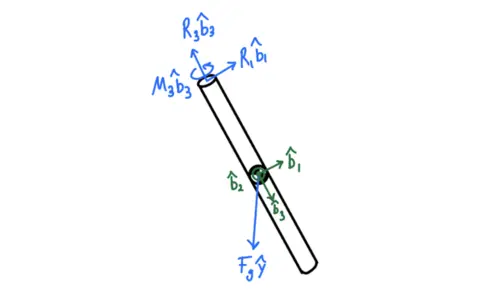
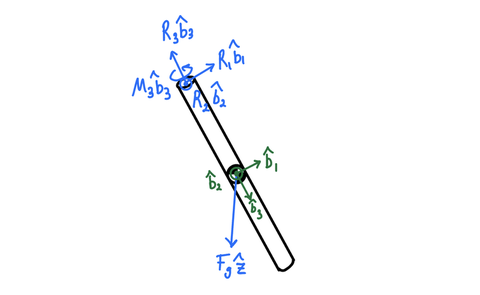
Deploying to gh-pages from @ jinhyunpark2459/jinhyunpark2459.github.io@9fc0fb31d1b1338cb011448d704d0d517c1a399c 🚀

Changed region(s): [[0.25, 0.0305, 0.6875, 0.9458]]

diff --git a/2021/07/04/diagrams.html b/2021/07/04/diagrams.html
@@ -150,8 +150,8 @@ sequenceDiagram
 </code></pre></div></div>
 
 <div class="jekyll-diagrams diagrams mermaid">
-  <svg id="mermaid-1685854302883" width="100%" xmlns="http://www.w3.org/2000/svg" height="100%" style="max-width:450px;" viewbox="-50 -10 450 231"><style>#mermaid-1685854302883 .label{font-family:trebuchet ms,verdana,arial;color:#333}#mermaid-1685854302883 .node circle,#mermaid-1685854302883 .node ellipse,#mermaid-1685854302883 .node polygon,#mermaid-1685854302883 .node rect{fill:#ececff;stroke:#9370db;stroke-width:1px}#mermaid-1685854302883 .node.clickable{cursor:pointer}#mermaid-1685854302883 .arrowheadPath{fill:#333}#mermaid-1685854302883 .edgePath .path{stroke:#333;stroke-width:1.5px}#mermaid-1685854302883 .edgeLabel{background-color:#e8e8e8}#mermaid-1685854302883 .cluster rect{fill:#ffffde!important;stroke:#aa3!important;stroke-width:1px!important}#mermaid-1685854302883 .cluster text{fill:#333}#mermaid-1685854302883 div.mermaidTooltip{position:absolute;text-align:center;max-width:200px;padding:2px;font-family:trebuchet ms,verdana,arial;font-size:12px;background:#ffffde;border:1px solid #aa3;border-radius:2px;pointer-events:none;z-index:100}#mermaid-1685854302883 .actor{stroke:#ccf;fill:#ececff}#mermaid-1685854302883 text.actor{fill:#000;stroke:none}#mermaid-1685854302883 .actor-line{stroke:grey}#mermaid-1685854302883 .messageLine0{marker-end:"url(#arrowhead)"}#mermaid-1685854302883 .messageLine0,#mermaid-1685854302883 .messageLine1{stroke-width:1.5;stroke-dasharray:"2 2";stroke:#333}#mermaid-1685854302883 #arrowhead{fill:#333}#mermaid-1685854302883 #crosshead path{fill:#333!important;stroke:#333!important}#mermaid-1685854302883 .messageText{fill:#333;stroke:none}#mermaid-1685854302883 .labelBox{stroke:#ccf;fill:#ececff}#mermaid-1685854302883 .labelText,#mermaid-1685854302883 .loopText{fill:#000;stroke:none}#mermaid-1685854302883 .loopLine{stroke-width:2;stroke-dasharray:"2 2";marker-end:"url(#arrowhead)";stroke:#ccf}#mermaid-1685854302883 .note{stroke:#aa3;fill:#fff5ad}#mermaid-1685854302883 .noteText{fill:#000;stroke:none;font-family:trebuchet ms,verdana,arial;font-size:14px}#mermaid-1685854302883 .section{stroke:none;opacity:.2}#mermaid-1685854302883 .section0{fill:rgba(102,102,255,.49)}#mermaid-1685854302883 .section2{fill:#fff400}#mermaid-1685854302883 .section1,#mermaid-1685854302883 .section3{fill:#fff;opacity:.2}#mermaid-1685854302883 .sectionTitle0,#mermaid-1685854302883 .sectionTitle1,#mermaid-1685854302883 .sectionTitle2,#mermaid-1685854302883 .sectionTitle3{fill:#333}#mermaid-1685854302883 .sectionTitle{text-anchor:start;font-size:11px;text-height:14px}#mermaid-1685854302883 .grid .tick{stroke:#d3d3d3;opacity:.3;shape-rendering:crispEdges}#mermaid-1685854302883 .grid path{stroke-width:0}#mermaid-1685854302883 .today{fill:none;stroke:red;stroke-width:2px}#mermaid-1685854302883 .task{stroke-width:2}#mermaid-1685854302883 .taskText{text-anchor:middle;font-size:11px}#mermaid-1685854302883 .taskTextOutsideRight{fill:#000;text-anchor:start;font-size:11px}#mermaid-1685854302883 .taskTextOutsideLeft{fill:#000;text-anchor:end;font-size:11px}#mermaid-1685854302883 .taskText0,#mermaid-1685854302883 .taskText1,#mermaid-1685854302883 .taskText2,#mermaid-1685854302883 .taskText3{fill:#fff}#mermaid-1685854302883 .task0,#mermaid-1685854302883 .task1,#mermaid-1685854302883 .task2,#mermaid-1685854302883 .task3{fill:#8a90dd;stroke:#534fbc}#mermaid-1685854302883 .taskTextOutside0,#mermaid-1685854302883 .taskTextOutside1,#mermaid-1685854302883 .taskTextOutside2,#mermaid-1685854302883 .taskTextOutside3{fill:#000}#mermaid-1685854302883 .active0,#mermaid-1685854302883 .active1,#mermaid-1685854302883 .active2,#mermaid-1685854302883 .active3{fill:#bfc7ff;stroke:#534fbc}#mermaid-1685854302883 .activeText0,#mermaid-1685854302883 .activeText1,#mermaid-1685854302883 .activeText2,#mermaid-1685854302883 .activeText3{fill:#000!important}#mermaid-1685854302883 .done0,#mermaid-1685854302883 .done1,#mermaid-1685854302883 .done2,#mermaid-1685854302883 .done3{stroke:grey;fill:#d3d3d3;stroke-width:2}#mermaid-1685854302883 .doneText0,#mermaid-1685854302883 .doneText1,#mermaid-1685854302883 .doneText2,#mermaid-1685854302883 .doneText3{fill:#000!important}#mermaid-1685854302883 .crit0,#mermaid-1685854302883 .crit1,#mermaid-1685854302883 .crit2,#mermaid-1685854302883 .crit3{stroke:#f88;fill:red;stroke-width:2}#mermaid-1685854302883 .activeCrit0,#mermaid-1685854302883 .activeCrit1,#mermaid-1685854302883 .activeCrit2,#mermaid-1685854302883 .activeCrit3{stroke:#f88;fill:#bfc7ff;stroke-width:2}#mermaid-1685854302883 .doneCrit0,#mermaid-1685854302883 .doneCrit1,#mermaid-1685854302883 .doneCrit2,#mermaid-1685854302883 .doneCrit3{stroke:#f88;fill:#d3d3d3;stroke-width:2;cursor:pointer;shape-rendering:crispEdges}#mermaid-1685854302883 .activeCritText0,#mermaid-1685854302883 .activeCritText1,#mermaid-1685854302883 .activeCritText2,#mermaid-1685854302883 .activeCritText3,#mermaid-1685854302883 .doneCritText0,#mermaid-1685854302883 .doneCritText1,#mermaid-1685854302883 .doneCritText2,#mermaid-1685854302883 .doneCritText3{fill:#000!important}#mermaid-1685854302883 .titleText{text-anchor:middle;font-size:18px;fill:#000}#mermaid-1685854302883 g.classGroup text{fill:#9370db;stroke:none;font-family:trebuchet ms,verdana,arial;font-size:10px}#mermaid-1685854302883 g.classGroup rect{fill:#ececff;stroke:#9370db}#mermaid-1685854302883 g.classGroup line{stroke:#9370db;stroke-width:1}#mermaid-1685854302883 .classLabel .box{stroke:none;stroke-width:0;fill:#ececff;opacity:.5}#mermaid-1685854302883 .classLabel .label{fill:#9370db;font-size:10px}#mermaid-1685854302883 .relation{stroke:#9370db;stroke-width:1;fill:none}#mermaid-1685854302883 #compositionEnd,#mermaid-1685854302883 #compositionStart{fill:#9370db;stroke:#9370db;stroke-width:1}#mermaid-1685854302883 #aggregationEnd,#mermaid-1685854302883 #aggregationStart{fill:#ececff;stroke:#9370db;stroke-width:1}#mermaid-1685854302883 #dependencyEnd,#mermaid-1685854302883 #dependencyStart,#mermaid-1685854302883 #extensionEnd,#mermaid-1685854302883 #extensionStart{fill:#9370db;stroke:#9370db;stroke-width:1}#mermaid-1685854302883 .branch-label,#mermaid-1685854302883 .commit-id,#mermaid-1685854302883 .commit-msg{fill:#d3d3d3;color:#d3d3d3}</style>
-<style>#mermaid-1685854302883 {
+  <svg id="mermaid-1685934436712" width="100%" xmlns="http://www.w3.org/2000/svg" height="100%" style="max-width:450px;" viewbox="-50 -10 450 231"><style>#mermaid-1685934436712 .label{font-family:trebuchet ms,verdana,arial;color:#333}#mermaid-1685934436712 .node circle,#mermaid-1685934436712 .node ellipse,#mermaid-1685934436712 .node polygon,#mermaid-1685934436712 .node rect{fill:#ececff;stroke:#9370db;stroke-width:1px}#mermaid-1685934436712 .node.clickable{cursor:pointer}#mermaid-1685934436712 .arrowheadPath{fill:#333}#mermaid-1685934436712 .edgePath .path{stroke:#333;stroke-width:1.5px}#mermaid-1685934436712 .edgeLabel{background-color:#e8e8e8}#mermaid-1685934436712 .cluster rect{fill:#ffffde!important;stroke:#aa3!important;stroke-width:1px!important}#mermaid-1685934436712 .cluster text{fill:#333}#mermaid-1685934436712 div.mermaidTooltip{position:absolute;text-align:center;max-width:200px;padding:2px;font-family:trebuchet ms,verdana,arial;font-size:12px;background:#ffffde;border:1px solid #aa3;border-radius:2px;pointer-events:none;z-index:100}#mermaid-1685934436712 .actor{stroke:#ccf;fill:#ececff}#mermaid-1685934436712 text.actor{fill:#000;stroke:none}#mermaid-1685934436712 .actor-line{stroke:grey}#mermaid-1685934436712 .messageLine0{marker-end:"url(#arrowhead)"}#mermaid-1685934436712 .messageLine0,#mermaid-1685934436712 .messageLine1{stroke-width:1.5;stroke-dasharray:"2 2";stroke:#333}#mermaid-1685934436712 #arrowhead{fill:#333}#mermaid-1685934436712 #crosshead path{fill:#333!important;stroke:#333!important}#mermaid-1685934436712 .messageText{fill:#333;stroke:none}#mermaid-1685934436712 .labelBox{stroke:#ccf;fill:#ececff}#mermaid-1685934436712 .labelText,#mermaid-1685934436712 .loopText{fill:#000;stroke:none}#mermaid-1685934436712 .loopLine{stroke-width:2;stroke-dasharray:"2 2";marker-end:"url(#arrowhead)";stroke:#ccf}#mermaid-1685934436712 .note{stroke:#aa3;fill:#fff5ad}#mermaid-1685934436712 .noteText{fill:#000;stroke:none;font-family:trebuchet ms,verdana,arial;font-size:14px}#mermaid-1685934436712 .section{stroke:none;opacity:.2}#mermaid-1685934436712 .section0{fill:rgba(102,102,255,.49)}#mermaid-1685934436712 .section2{fill:#fff400}#mermaid-1685934436712 .section1,#mermaid-1685934436712 .section3{fill:#fff;opacity:.2}#mermaid-1685934436712 .sectionTitle0,#mermaid-1685934436712 .sectionTitle1,#mermaid-1685934436712 .sectionTitle2,#mermaid-1685934436712 .sectionTitle3{fill:#333}#mermaid-1685934436712 .sectionTitle{text-anchor:start;font-size:11px;text-height:14px}#mermaid-1685934436712 .grid .tick{stroke:#d3d3d3;opacity:.3;shape-rendering:crispEdges}#mermaid-1685934436712 .grid path{stroke-width:0}#mermaid-1685934436712 .today{fill:none;stroke:red;stroke-width:2px}#mermaid-1685934436712 .task{stroke-width:2}#mermaid-1685934436712 .taskText{text-anchor:middle;font-size:11px}#mermaid-1685934436712 .taskTextOutsideRight{fill:#000;text-anchor:start;font-size:11px}#mermaid-1685934436712 .taskTextOutsideLeft{fill:#000;text-anchor:end;font-size:11px}#mermaid-1685934436712 .taskText0,#mermaid-1685934436712 .taskText1,#mermaid-1685934436712 .taskText2,#mermaid-1685934436712 .taskText3{fill:#fff}#mermaid-1685934436712 .task0,#mermaid-1685934436712 .task1,#mermaid-1685934436712 .task2,#mermaid-1685934436712 .task3{fill:#8a90dd;stroke:#534fbc}#mermaid-1685934436712 .taskTextOutside0,#mermaid-1685934436712 .taskTextOutside1,#mermaid-1685934436712 .taskTextOutside2,#mermaid-1685934436712 .taskTextOutside3{fill:#000}#mermaid-1685934436712 .active0,#mermaid-1685934436712 .active1,#mermaid-1685934436712 .active2,#mermaid-1685934436712 .active3{fill:#bfc7ff;stroke:#534fbc}#mermaid-1685934436712 .activeText0,#mermaid-1685934436712 .activeText1,#mermaid-1685934436712 .activeText2,#mermaid-1685934436712 .activeText3{fill:#000!important}#mermaid-1685934436712 .done0,#mermaid-1685934436712 .done1,#mermaid-1685934436712 .done2,#mermaid-1685934436712 .done3{stroke:grey;fill:#d3d3d3;stroke-width:2}#mermaid-1685934436712 .doneText0,#mermaid-1685934436712 .doneText1,#mermaid-1685934436712 .doneText2,#mermaid-1685934436712 .doneText3{fill:#000!important}#mermaid-1685934436712 .crit0,#mermaid-1685934436712 .crit1,#mermaid-1685934436712 .crit2,#mermaid-1685934436712 .crit3{stroke:#f88;fill:red;stroke-width:2}#mermaid-1685934436712 .activeCrit0,#mermaid-1685934436712 .activeCrit1,#mermaid-1685934436712 .activeCrit2,#mermaid-1685934436712 .activeCrit3{stroke:#f88;fill:#bfc7ff;stroke-width:2}#mermaid-1685934436712 .doneCrit0,#mermaid-1685934436712 .doneCrit1,#mermaid-1685934436712 .doneCrit2,#mermaid-1685934436712 .doneCrit3{stroke:#f88;fill:#d3d3d3;stroke-width:2;cursor:pointer;shape-rendering:crispEdges}#mermaid-1685934436712 .activeCritText0,#mermaid-1685934436712 .activeCritText1,#mermaid-1685934436712 .activeCritText2,#mermaid-1685934436712 .activeCritText3,#mermaid-1685934436712 .doneCritText0,#mermaid-1685934436712 .doneCritText1,#mermaid-1685934436712 .doneCritText2,#mermaid-1685934436712 .doneCritText3{fill:#000!important}#mermaid-1685934436712 .titleText{text-anchor:middle;font-size:18px;fill:#000}#mermaid-1685934436712 g.classGroup text{fill:#9370db;stroke:none;font-family:trebuchet ms,verdana,arial;font-size:10px}#mermaid-1685934436712 g.classGroup rect{fill:#ececff;stroke:#9370db}#mermaid-1685934436712 g.classGroup line{stroke:#9370db;stroke-width:1}#mermaid-1685934436712 .classLabel .box{stroke:none;stroke-width:0;fill:#ececff;opacity:.5}#mermaid-1685934436712 .classLabel .label{fill:#9370db;font-size:10px}#mermaid-1685934436712 .relation{stroke:#9370db;stroke-width:1;fill:none}#mermaid-1685934436712 #compositionEnd,#mermaid-1685934436712 #compositionStart{fill:#9370db;stroke:#9370db;stroke-width:1}#mermaid-1685934436712 #aggregationEnd,#mermaid-1685934436712 #aggregationStart{fill:#ececff;stroke:#9370db;stroke-width:1}#mermaid-1685934436712 #dependencyEnd,#mermaid-1685934436712 #dependencyStart,#mermaid-1685934436712 #extensionEnd,#mermaid-1685934436712 #extensionStart{fill:#9370db;stroke:#9370db;stroke-width:1}#mermaid-1685934436712 .branch-label,#mermaid-1685934436712 .commit-id,#mermaid-1685934436712 .commit-msg{fill:#d3d3d3;color:#d3d3d3}</style>
+<style>#mermaid-1685934436712 {
     color: rgb(0, 0, 0);
     font: normal normal 400 normal 16px / normal "Times New Roman";
   }</style>

diff --git a/projects/single_pendulum/index.html b/projects/single_pendulum/index.html
@@ -126,7 +126,7 @@
 <h3 id="newton-euler-method">Newton-Euler Method</h3>
 <p>The Newton-Euler approach is the standard \(\sum \mathbf{F}=m\mathbf{a}\) (linear moment balance) and \(\sum \mathbf{M}=I\mathbf{\alpha}\) (angular momentum balance) approach to the problem.</p>
 
-<p>In general, you need 6 coordinates to fully describe the position and orientation of a rigid body in 3D space (three for position and three for orientation). Constraining the pendulum to be rigidly attached to the base reduces this to 3 coordinates (three angles). The no-twist condition further reduces this to two angles. I defined these two angles as \(\theta\) and \(\phi\). Hence solving for the motion of the pendulum boils down to solving for the time evolution of these two angles.</p>
+<p>In general, you need 6 coordinates to fully describe the position and orientation of a rigid body in 3D space (three for position and three for orientation). Constraining the pendulum to be rigidly attached to the base reduces this to 3 coordinates (three angles). The no-twist condition further reduces this to two angles. I defined these two angles as \(\theta\) and \(\phi\) (shown in the figure below). Hence solving for the motion of the pendulum boils down to solving for the time evolution of these two angles.</p>
 
 <div class="row justify-content-sm-center">
     <div class="col-sm-8 mt-3 mt-md-0">
@@ -172,21 +172,21 @@
     </div>
 </div>
 
-<p>Using simple geometric relations, we can find the transformation equation between the two frames:</p>
+<p>Notice that this is a negative rotation about \(\hat{x}\) according to the right-hand rule. Using simple geometric relations, we can find the transformation equation between the two frames:</p>
 
 \[\hat{x}=\hat{a}_1\]
 
-\[\hat{y}=cos(\theta)\hat{a}_2-sin(\theta)\hat{a}_3\]
+\[\hat{y}=cos(\theta)\hat{a}_2+sin(\theta)\hat{a}_3\]
 
-\[\hat{z}=sin(\theta)\hat{a}_2+cos(\theta)\hat{a}_3\]
+\[\hat{z}=-sin(\theta)\hat{a}_2+cos(\theta)\hat{a}_3\]
 
 <p>We can put the three equations into a matrix \({}^IC^A\), called the coordinate transformation matrix from frame \(I\) to frame \(A\):</p>
 
 \[{}^IC^A=
 \begin{bmatrix}
 1 &amp; 0 &amp; 0 \\
-0 &amp; cos(\theta) &amp; sin(\theta) \\
-0 &amp; -sin(\theta) &amp; cos(\theta) \\
+0 &amp; cos(\theta) &amp; -sin(\theta) \\
+0 &amp; sin(\theta) &amp; cos(\theta) \\
 \end{bmatrix}\]
 
 <p>For the second rotation, we rotate frame \(A\) about \(\hat{a}_2\) by an angle \(\phi\) to obtain the body frame \(B=(\hat{b}_1,\hat{b}_2,\hat{b}_3)\).</p>
@@ -229,14 +229,18 @@ cos(\phi) &amp; 0 &amp; -sin(\phi) \\
 sin(\phi) &amp; 0 &amp; cos(\phi) \\
 \end{bmatrix}\]
 
+<p>A third rotation is unnecessary because the pendulum is not allowed to twist.</p>
+
 <p>To obtain the transformation matrix that transforms a vector from frame \(I\) to frame \(B\), we simply multiply the two matrices above (the order matters!):</p>
 
-\[{}^IC^B={}^AC^B{}^IC^A=
+\[{}^IC^B={}^AC^B\cdot{}^IC^A=
 \begin{bmatrix}
-cos(\phi) &amp; sin(\phi)sin(\theta) &amp; -cos(\theta)sin(\phi) \\
-0 &amp; cos(\theta) &amp; sin(\theta) \\
-sin(\phi) &amp; -cos(\phi)sin(\theta) &amp; cos(\phi)cos(\theta) \\
+cos(\phi) &amp; -sin(\phi)sin(\theta) &amp; -cos(\theta)sin(\phi) \\
+0 &amp; cos(\theta) &amp; -sin(\theta) \\
+sin(\phi) &amp; cos(\phi)sin(\theta) &amp; cos(\phi)cos(\theta) \\
 \end{bmatrix}\]
+
+<p>The first column of the matrix expresses \(\hat{x}\) in terms of \(\hat{b}_1\), \(\hat{b}_2\), and \(\hat{b}_3\). The second column expresses \(\hat{y}\) in terms of \(\hat{b}_1\), \(\hat{b}_2\), and \(\hat{b}_3\). The third column expresses \(\hat{z}\) in terms of \(\hat{b}_1\), \(\hat{b}_2\), and \(\hat{b}_3\).</p>
 
 <p>Note that these matrices do not rotate a vector in space. Instead, they transform the components of the a vector in one frame to the components in another frame (i.e. change of basis). The vector remains the same vector, but we’re essentially expressing the components in another coordinate system. These matrices will come in handy when we’re switching between reference frames. To transform the components in the reverse direction (for example, from \(B\) to \(A\) instead of from \(A\) to \(B\)), we just invert the transformation matrix.</p>
 
@@ -254,7 +258,7 @@ sin(\phi) &amp; -cos(\phi)sin(\theta) &amp; cos(\phi)cos(\theta) \\
     
 
     <!-- Fallback to the original file -->
-    <img src="/assets/img/single_pendulum/fbd.png" class="img-fluid rounded z-depth-1" width="auto" height="auto" onerror="this.onerror=null; $('.responsive-img-srcset').remove();">
+    <img src="/assets/img/single_pendulum/fbd.jpg" class="img-fluid rounded z-depth-1" width="auto" height="auto" onerror="this.onerror=null; $('.responsive-img-srcset').remove();">
 
   </picture>
 
@@ -265,7 +269,9 @@ sin(\phi) &amp; -cos(\phi)sin(\theta) &amp; cos(\phi)cos(\theta) \\
 
 <p>It is important that we include the reaction moment \(M_3\) which prevents the pendulum from twisting about its longitudinal axis. Also, we will model the pendulum as a thin rod of length \(l\).</p>
 
-<p>The next step is to perform a linear momentum balance in each of the coordinate directions of the body frame. But before we do so, we must derive an expression for the inertial acceleration of the center of mass of the pendulum in terms of the body frame unit vectors. To do this, we differentiate the position vector in frame \(B\) twice. Notice that the body frame is just a spherical frame of reference with constant \(r\):</p>
+<p>The next step is to perform a linear momentum balance in each of the coordinate directions of the body frame. But before we do so, we must derive an expression for the inertial acceleration of the center of mass of the pendulum in terms of the body frame unit vectors. To do this, we differentiate the position vector in frame \(B\) twice:</p>
+
+\[{}^I\mathbf{a}=l[(\ddot{\phi}+\dot{\theta}^2sin(\phi)cos(\phi))\hat{b}_1+(\ddot{theta}cos(\phi)-2\dot{theta}\dot{phi}sin{\phi})\hat{b}_2-(\dot{phi}^2-\dot{theta}^2cos^2(\phi))\hat{b}_3]\]
 
 <p>In the \(\hat{b}_1\) direction:</p>
 
